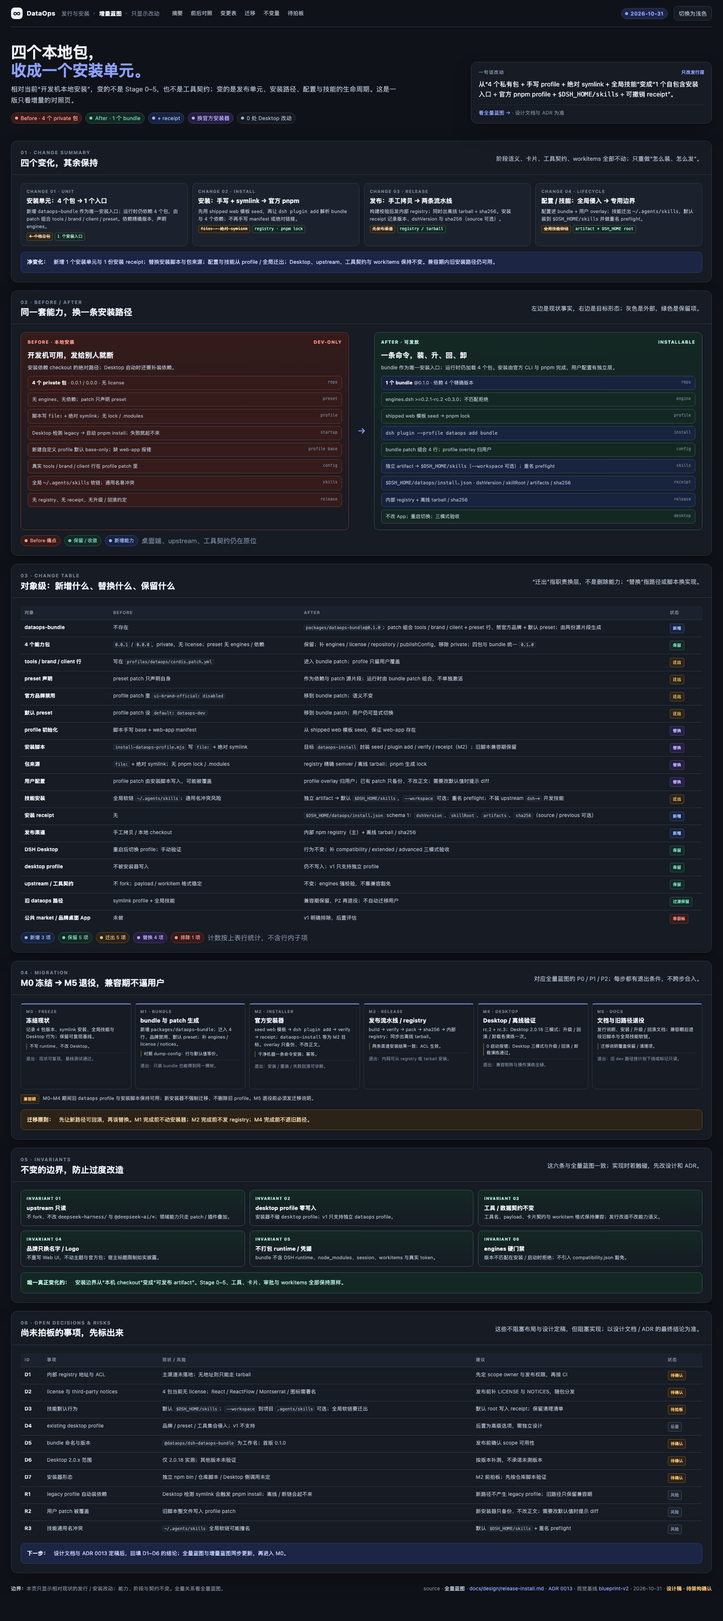
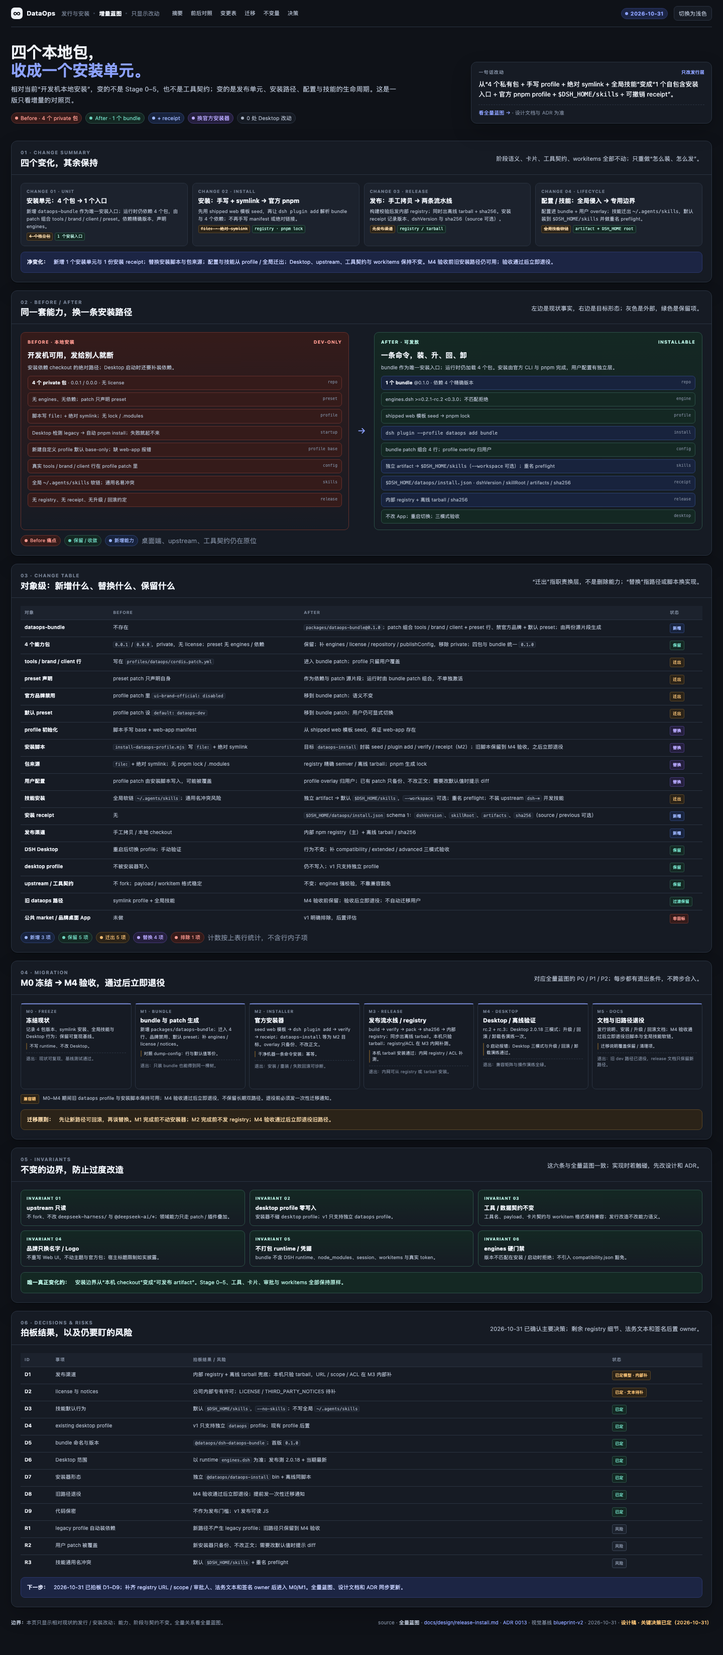
docs: finalize release install decisions

Changed region(s): [[0.0, 0.0, 0.9688, 0.9919], [0.5, 0.589, 0.625, 0.651]]

diff --git a/prototype/release-install-blueprint.html b/prototype/release-install-blueprint.html
@@ -206,6 +206,7 @@
   .open-table td:first-child{white-space:nowrap}
   .tbd{display:inline-block;font-size:8px;line-height:17px;padding:0 5px;border-radius:3px;border:1px solid var(--owned-line);color:var(--owned);background:var(--owned-bg);font-weight:700;white-space:nowrap}
   .tbd.soft{color:var(--external);background:var(--external-bg);border-color:var(--line2)}
+  .tbd.done{color:var(--shared);background:var(--shared-bg);border-color:var(--shared-line)}
   .foot{margin-top:22px;display:flex;justify-content:space-between;gap:16px;flex-wrap:wrap;color:var(--faint);font-size:10px;line-height:1.7}
   .foot b{color:var(--muted)}
   .foot .state{color:var(--owned);font-weight:600}
@@ -273,7 +274,7 @@
 <div class="shell">
   <header class="topbar">
     <span class="brand"><span class="brand-mark">∞</span> DataOps</span>
-    <span class="crumb"><span>发行与安装</span><span class="dot"></span><b>全量蓝图</b><span class="dot"></span><span>设计稿 · 待确认</span></span>
+    <span class="crumb"><span>发行与安装</span><span class="dot"></span><b>全量蓝图</b><span class="dot"></span><span>设计稿 · 关键决策已定</span></span>
     <nav class="nav">
       <a href="#goals">目标</a><a href="#topology">拓扑</a><a href="#packages">安装单元</a><a href="#journey">旅程</a><a href="#entries">双入口</a><a href="#compat">兼容</a><a href="#lifecycle">生命周期</a><a href="#trust">信任</a><a href="#invariants">边界</a><a href="#roadmap">路线</a>
     </nav>
@@ -419,7 +420,7 @@
       </div>
       <div class="grid-2" style="margin-top:11px">
         <div class="card soft"><div class="k">Channel A · 主渠道</div><h3>内部 npm registry</h3><p>按 <code>@dataops</code> scope 发布；安装器按精确 semver 解析，pnpm 生成 lock。适合联网的内网开发机与 CI。</p><div class="chips"><span class="chip">exact version</span><span class="chip">registry ACL</span><span class="chip">pnpm lock</span></div></div>
-        <div class="card soft"><div class="k">Channel B · 离线</div><h3>tarball + sha256</h3><p>离线包携带 bundle 及其依赖的打包产物与校验文件；目标机先校验再安装。真实内网地址与签名流程 <span class="tbd">待确认</span>。</p><div class="chips"><span class="chip">.tgz</span><span class="chip">sha256</span><span class="chip">no public network</span></div></div>
+        <div class="card soft"><div class="k">Channel B · 离线</div><h3>tarball + sha256</h3><p>离线包携带 bundle 及其依赖的打包产物与校验文件；目标机先校验再安装。registry 地址待补；签名/attestation 后置。</p><div class="chips"><span class="chip">.tgz</span><span class="chip">sha256</span><span class="chip">no public network</span></div></div>
       </div>
       <div class="callout" style="margin-top:11px"><b>稳定的只有接口：</b>用户看到的始终是 profile 名 <code>dataops</code>、bundle 包名与两条安装路径；包内部如何组合（patch 行、依赖树）属于实现，可在版本内演进。</div>
     </div>
@@ -469,7 +470,7 @@
   &gt;=0.2.1-rc.2 &lt;0.3.0</span></div>
           </div>
           <div class="card soft"><b>版本与元数据</b><p>4 个包当前 <code>0.0.1</code> / <code>0.0.0</code>、均为 private、无 license。发布时四包与 bundle 统一 <code>0.1.0</code>，补 engines / license / repository / publishConfig，并移除 private。</p></div>
-          <div class="card soft"><b>职责归属</b><p><b>DataOps</b>：bundle、tools、brand、client、preset。<b>官方</b>：base、web-app、runtime。<b>用户</b>：profile overlay、home patch、workspace。</p></div>
+          <div class="card soft"><b>职责归属</b><p><b>DataOps</b>：bundle、tools、brand、client、preset、install CLI。<b>官方</b>：base、web-app、runtime。<b>用户</b>：profile overlay、home patch、workspace。</p></div>
         </div>
       </div>
       <div class="table-wrap" style="margin-top:12px">
@@ -481,6 +482,7 @@
             <tr><td><b>dataops-brand</b></td><td>Client 品牌占位（∞ / DataOps）</td><td>profile 依赖</td><td>保留；只换名字 / Logo，不动主题与官方包</td><td>精确版本</td></tr>
             <tr><td><b>dataops-client</b></td><td>Client 卡片与工作台</td><td>profile 依赖</td><td>保留；工具契约不变</td><td>精确版本</td></tr>
             <tr><td><b>dataops-preset</b></td><td>preset 定义 / patch 源片段</td><td>bundle 依赖，不单独激活</td><td>保留；补 engines / license，版本统一 <code>0.1.0</code></td><td>精确版本</td></tr>
+            <tr><td><b>dataops-install</b></td><td>安装 / 诊断 / 卸载 CLI</td><td>registry bin / 离线脚本</td><td>新增 <code>@dataops/dataops-install</code>，与离线包同一脚本</td><td>检查 runtime，不依赖 DSH 包</td></tr>
             <tr><td><b>profile overlay</b></td><td>用户配置与覆盖</td><td>profile 根目录</td><td>安装器创建后不覆盖</td><td>由用户掌控</td></tr>
             <tr><td><b>skills</b></td><td>独立 artifact</td><td><code>$DSH_HOME/skills</code>；可选 <code>--workspace</code></td><td>迁出全局 <code>~/.agents/skills</code>；只带筛选后的 DataOps 工作流技能</td><td>按 artifact 版本</td></tr>
           </tbody>
@@ -512,7 +514,7 @@
         <div class="fail warn"><b>用户 patch 被改</b><span>安装器只备份现有 <code>cordis.patch.yml</code>，不改正文；需要改默认值时只提示 diff，不自动合并。</span></div>
         <div class="fail warn"><b>registry 不可达</b><span>切离线 tarball + sha256；校验失败或版本不符就停止，不进半安装状态。</span></div>
         <div class="fail warn"><b>技能重名</b><span>preflight 列出冲突技能；中止或由用户选择跳过，不覆盖已有技能目录。</span></div>
-        <div class="fail good"><b>旧 dataops profile 共存</b><span>兼容期保留旧 <code>dataops</code> profile 与安装脚本；不把旧 symlink profile 当作发布产物。</span></div>
+        <div class="fail good"><b>旧 dataops profile 共存</b><span>M4 验收前旧 <code>dataops</code> profile 与脚本保留；验收后立即退役。不把旧 symlink profile 当作发布产物。</span></div>
       </div>
       <div class="callout" style="margin-top:11px"><b>目标形态：</b><code>dataops-install</code> / <code>dataops-doctor</code> / <code>dataops-uninstall</code> 是 M2 才实现的安装器入口；当前仓库仍用 dev 脚本，本页不把它们写成已可用。官方底层命令 <code>dsh plugin add</code> 现在可用。<br><b>失败可诊断：</b>错误必须带“对象 + 当前值 + 期望值 + 下一步”，例如 “profile dataops 缺 web-app，请重新按 web 模板初始化”。</div>
     </div>
@@ -551,7 +553,7 @@
       <div class="modes">
         <div class="mode"><div class="k">Desktop Mode 01</div><h3>compatibility · 兼容</h3><p>最小面：App 能启动、profile 被识别、4 个包加载、品牌与 preset 正确；默认推荐此模式。</p><span class="st tag shared"><i></i>必测 · 默认推荐</span></div>
         <div class="mode"><div class="k">Desktop Mode 02</div><h3>extended · 扩展</h3><p>在兼容面之外验证自定义 web profile 的列出 / 切换、会话创建与工具调用。</p><span class="st tag shared"><i></i>必测</span></div>
-        <div class="mode"><div class="k">Desktop Mode 03</div><h3>advanced · 高级</h3><p>验证 overlay 配置、技能 root、离线安装与回滚；具体模式定义以 Desktop 文档为准 <span class="tbd">待确认</span>。</p><span class="st tag owned"><i></i>必测</span></div>
+        <div class="mode"><div class="k">Desktop Mode 03</div><h3>advanced · 高级</h3><p>验证 overlay 配置、技能 root、离线安装与回滚；具体模式定义以 Desktop 文档为准。</p><span class="st tag owned"><i></i>必测</span></div>
       </div>
       <div class="callout warn" style="margin-top:11px"><b>不共享 desktop profile 的生态位：</b>market、bridge 与 desktop 专属插件不进入 dataops profile。用户若需要，应显式在 overlay 中追加，而不是由安装器默认继承。</div>
     </div>
@@ -571,7 +573,7 @@
             <tr><td><b>DSH runtime</b></td><td><code>0.2.1-rc.3</code>（本仓 <code>upstream.json</code> pin）</td><td><span class="tag shared"><i></i>支持</span></td><td>CI：契约 / preset / workitem / 布局 + headless smoke</td></tr>
             <tr><td><b>DSH runtime</b></td><td><code>&lt;0.2.1-rc.2</code> 或 <code>&gt;=0.3.0</code></td><td><span class="tag warn"><i></i>拒绝</span></td><td>engines 在安装 / 启动时拒绝加载</td></tr>
             <tr><td><b>DSH Desktop</b></td><td><code>2.0.18</code></td><td><span class="tag shared"><i></i>支持</span></td><td>compatibility / extended / advanced 三模式</td></tr>
-            <tr><td><b>DSH Desktop</b></td><td>其他 <code>2.0.x</code></td><td><span class="tag owned"><i></i>待确认</span></td><td>未实测不承诺；按 Desktop 实际版本补测</td></tr>
+            <tr><td><b>DSH Desktop</b></td><td>其他 <code>2.0.x</code></td><td><span class="tag shared"><i></i>按 runtime 判定</span></td><td>内置 runtime 在 engines 范围即支持；未实测版本标注“未验证”</td></tr>
             <tr><td><b>平台</b></td><td>macOS arm64</td><td><span class="tag shared"><i></i>目标</span></td><td>M4：clean DSH_HOME install / uninstall</td></tr>
             <tr><td><b>平台</b></td><td>Windows x64</td><td><span class="tag shared"><i></i>目标</span></td><td>M4：pnpm profile + skills + 无 symlink</td></tr>
             <tr><td><b>平台</b></td><td>Linux</td><td><span class="tag owned"><i></i>补充</span></td><td>CI / 容器；无真机时标注“未验证”</td></tr>
@@ -583,7 +585,7 @@
       </div>
       <div class="grid-3" style="margin-top:11px">
         <div class="card shared"><div class="k">Gate A · 版本兼容</div><h3>能不能装</h3><p>安装前预检 runtime 版本；启动时 engines 再校验一次。失败即停，不进入半安装。</p><div class="tiny">证据：<code>--dump-config</code> 在两版 runtime 各跑一次</div></div>
-        <div class="card brand"><div class="k">Gate B · 发布完整性</div><h3>产物可不可信</h3><p>构建可复现、依赖锁定；发布附 sha256，registry 有 ACL；签名作为可选增强。</p><div class="tiny">证据：校验和记录 + registry 发布日志</div></div>
+        <div class="card brand"><div class="k">Gate B · 发布完整性</div><h3>产物可不可信</h3><p>构建可复现、依赖锁定；发布附 sha256，registry 有 ACL；签名/attestation 后置。本机验收走离线 tarball，registry/ACL 在 M3 内网补测。</p><div class="tiny">证据：本机 tarball 校验记录 + 内网 registry 发布日志</div></div>
         <div class="card owned"><div class="k">Gate C · 安装验收</div><h3>装完对不对</h3><p>dump-config 检查行与默认值；Desktop 三模式；升级 / 回滚 / 卸载演练各一次。</p><div class="tiny">证据：receipt + 三模式验收记录</div></div>
       </div>
       <div class="callout warn" style="margin-top:11px"><b>不用兼容性豁免：</b><code>compatibility.json</code> 之类“绕过 engines”的开关不进入本方案。版本不兼容就升级 runtime 或发新的 bundle 版本，两者必须显式对应。</div>
@@ -644,14 +646,14 @@
       <div class="rail-wrap">
         <div class="trust">
           <div class="tstep"><div class="no">01 · build</div><h3>可复现构建</h3><p>源码 pin + lockfile；不 fork upstream；产物不含凭据与本地路径。</p></div>
-          <div class="tstep"><div class="no">02 · checksum</div><h3>校验与签名</h3><p>tarball 附 sha256；签名作为可选增强，密钥归属 <span class="tbd">待确认</span>。</p></div>
+          <div class="tstep"><div class="no">02 · checksum</div><h3>校验与签名</h3><p>tarball 附 sha256；签名/attestation 后置，等产品成熟和安全团队具备密钥/CI 流程后再补。</p></div>
           <div class="tstep"><div class="no">03 · registry ACL</div><h3>谁能发布</h3><p>内部 registry 按 <code>@dataops</code> scope 限权；读权限给内网安装者。</p></div>
           <div class="tstep"><div class="no">04 · consent</div><h3>安装即代码执行</h3><p>安装前明示将执行的代码、写入目录、技能 root；默认不静默写全局。</p></div>
           <div class="tstep"><div class="no">05 · runtime</div><h3>启动复检</h3><p>engines 再校验；provider 凭据只走 credentials / env，不落 bundle。</p></div>
         </div>
       </div>
       <div class="grid-4" style="margin-top:11px">
-        <div class="card"><div class="k">Legal 01</div><h3>LICENSE</h3><p>仓库暂无根 LICENSE，4 个包也无 license 字段；发布前必须选定并写入包与仓库。具体许可证 <span class="tbd">待确认</span>。</p></div>
+        <div class="card"><div class="k">Legal 01</div><h3>LICENSE</h3><p>已定公司内部专有许可；发布前补 LICENSE 与 4 包 license 字段，法务文本待补。</p></div>
         <div class="card"><div class="k">Legal 02</div><h3>THIRD_PARTY_NOTICES</h3><p>至少覆盖 React、ReactFlow、Montserrat（OFL）与产品图标来源；随发布物分发。</p></div>
         <div class="card"><div class="k">Legal 03</div><h3>独立声明</h3><p>不暗示与 DeepSeek 官方的隶属或背书；品牌只用于 DataOps 自身产品面。</p></div>
         <div class="card"><div class="k">Known</div><h3>宿主标题限制</h3><p>宿主页面 / 窗口标题可能仍是 DeepSeek Harness 或 DSH Desktop，插件运行时改不了；v1 接受该限制，在发行说明中写明。</p></div>
@@ -683,37 +685,39 @@
   <section class="section" id="roadmap">
     <div class="section-head">
       <div><div class="section-kicker">10 · Migration &amp; Decisions</div><h2>P0 定稿，P1 可发，P2 扩面</h2></div>
-      <div class="desc">先冻结现状与边界，再改安装器与发布流水线；Desktop 验证与旧路径退役放最后。</div>
+      <div class="desc">关键决策已定；先做 bundle 与官方安装器，M4 验收后立即退役旧路径。</div>
     </div>
     <div class="section-body">
       <div class="road">
-        <div class="phase p0"><div class="k">P0 · 现在</div><h3>设计与冻结</h3><ul><li>设计文档 + ADR 0013 + 全量 / 增量蓝图。</li><li>记录现状：4 包版本、symlink 安装、全局技能。</li><li>不改 runtime、不改 Desktop、不发布。</li></ul><div class="exit">出口：架构确认，边界与待确认项收敛。</div></div>
+        <div class="phase p0"><div class="k">P0 · 现在</div><h3>设计与冻结</h3><ul><li>设计文档 + ADR 0013 + 全量 / 增量蓝图。</li><li>记录现状：4 包版本、symlink 安装、全局技能。</li><li>不改 runtime、不改 Desktop、不发布。</li></ul><div class="exit">出口：关键决策已确认，边界与待补信息收敛。</div></div>
         <div class="phase p1"><div class="k">P1 · 可发</div><h3>bundle 与官方安装器</h3><ul><li><code>packages/dataops-bundle</code> 0.1.0：patch / 精确依赖 / engines / license / notices。</li><li>seed + <code>dsh plugin add</code> 安装器；receipt 与 verify。</li><li>内部 registry + 离线 tarball / sha256；rc.2 / rc.3 CI。</li></ul><div class="exit">出口：干净机器一条命令安装并 dump-config 通过。</div></div>
-        <div class="phase p2"><div class="k">P2 · 扩面</div><h3>Desktop、兼容期与退役</h3><ul><li>Desktop 三模式 + 升级 / 回滚 / 卸载演练。</li><li>发行说明、安装 / 升级文档；兼容期保留旧脚本。</li><li>评估 existing-profile 高级选项、公共 market 与品牌桌面 App。</li></ul><div class="exit">出口：发布渠道稳定，旧 dataops profile 路径按计划退役。</div></div>
+        <div class="phase p2"><div class="k">P2 · 扩面</div><h3>Desktop、验收与退役</h3><ul><li>Desktop 三模式 + 升级 / 回滚 / 卸载演练。</li><li>发行说明、安装 / 升级文档；M4 验收后立即退役旧脚本。</li><li>评估 existing-profile 高级选项、公共 market 与品牌桌面 App。</li></ul><div class="exit">出口：发布渠道稳定，旧 dataops profile 路径已按计划退役。</div></div>
       </div>
       <div class="table-wrap" style="margin-top:12px">
         <table class="open-table">
-          <thead><tr><th>ID</th><th>待拍板项</th><th>当前建议 / 事实</th><th>状态</th></tr></thead>
+          <thead><tr><th>ID</th><th>事项</th><th>拍板结果（2026-10-31）</th><th>状态</th></tr></thead>
           <tbody>
-            <tr><td><b>D1</b></td><td>内部 registry 地址、scope owner 与 ACL</td><td>主渠道走内部 npm；具体 URL 与审批人未定</td><td><span class="tbd">待确认</span></td></tr>
-            <tr><td><b>D2</b></td><td>许可证选择与 notices 责任</td><td>内部许可 vs 其他；仓库与 4 包当前无 license</td><td><span class="tbd">待确认</span></td></tr>
-            <tr><td><b>D3</b></td><td>技能默认行为</td><td>默认 <code>$DSH_HOME/skills</code>；<code>--workspace</code> 到项目 <code>.agents/skills</code> 可选；不做全局 <code>~/.agents/skills</code></td><td><span class="tbd">待拍板</span></td></tr>
-            <tr><td><b>D4</b></td><td>existing desktop profile 支持</td><td>v1 不支持；列为未来 / 高级选项</td><td><span class="tbd soft">后置</span></td></tr>
-            <tr><td><b>D5</b></td><td>bundle 包命名</td><td><code>@dataops/dsh-dataops-bundle</code> 为工作名</td><td><span class="tbd">待确认</span></td></tr>
-            <tr><td><b>D6</b></td><td>签名基础设施与密钥归属</td><td>v1 校验和必选、签名可选；密钥 owner 未定</td><td><span class="tbd soft">可选</span></td></tr>
-            <tr><td><b>D7</b></td><td>Desktop 2.0.x 支持范围</td><td>仅 2.0.18 实测；其他 2.0.x 未验证</td><td><span class="tbd">待确认</span></td></tr>
-            <tr><td><b>D8</b></td><td>旧 dataops profile / 脚本退役时点</td><td>P2 兼容期后退役，需迁移说明</td><td><span class="tbd">待确认</span></td></tr>
-            <tr><td><b>D9</b></td><td>安装器形态</td><td>独立 npm bin / 仓库脚本 / Desktop 侧调用，M2 前不实现</td><td><span class="tbd">待确认</span></td></tr>
+            <tr><td><b>D1</b></td><td>发布渠道</td><td>内部 registry 为主 + 离线 tarball 兜底；本机测试只走 tarball，URL / scope / ACL 在 M3 内部补</td><td><span class="tbd">已定模型 · 内部补</span></td></tr>
+            <tr><td><b>D2</b></td><td>许可证与 notices</td><td>公司内部专有许可；法务文本 + THIRD_PARTY_NOTICES 待补</td><td><span class="tbd">已定 · 文本待补</span></td></tr>
+            <tr><td><b>D3</b></td><td>技能默认行为</td><td>默认 <code>$DSH_HOME/skills</code>，<code>--no-skills</code> 可关闭；不写 <code>~/.agents/skills</code>，不装 upstream <code>dsh-*</code></td><td><span class="tbd done">已定</span></td></tr>
+            <tr><td><b>D4</b></td><td>existing desktop profile</td><td>v1 只支持独立 <code>dataops</code> profile；现有 profile 后置</td><td><span class="tbd done">已定</span></td></tr>
+            <tr><td><b>D5</b></td><td>bundle 包命名 / 版本</td><td><code>@dataops/dsh-dataops-bundle</code>；首版 <code>0.1.0</code></td><td><span class="tbd done">已定</span></td></tr>
+            <tr><td><b>D6</b></td><td>签名 / attestation</td><td>后置；v1 保留 sha256 + registry ACL + 安装确认</td><td><span class="tbd soft">后置</span></td></tr>
+            <tr><td><b>D7</b></td><td>Desktop 支持范围</td><td>以 runtime <code>engines.dsh</code> 为准；发布测 2.0.18 + 当期最新</td><td><span class="tbd done">已定</span></td></tr>
+            <tr><td><b>D8</b></td><td>旧路径退役时点</td><td>M4 验收通过后立即退役；提前发一次性迁移通知</td><td><span class="tbd done">已定</span></td></tr>
+            <tr><td><b>D9</b></td><td>安装器形态</td><td>独立 <code>@dataops/dataops-install</code> bin + 离线包内置同一脚本</td><td><span class="tbd done">已定</span></td></tr>
+            <tr><td><b>D10</b></td><td>代码保密</td><td>不作为发布门槛；v1 发布可读 JS，不做混淆/服务端化</td><td><span class="tbd done">已定</span></td></tr>
+            <tr><td><b>D11</b></td><td><code>dataops-preset</code> 角色</td><td>patch 源片段 / 版本对齐依赖，不单独作为用户安装目标</td><td><span class="tbd done">已定</span></td></tr>
           </tbody>
         </table>
       </div>
-      <div class="callout" style="margin-top:11px"><b>先决条件：</b>设计文档与 ADR 0013 是本页的上级事实源；两者若调整，蓝图同步更新。发布实现必须在架构确认之后，不把 runtime 改动混进设计提交。</div>
+      <div class="callout" style="margin-top:11px"><b>拍板记录：</b>2026-10-31 已确认以上决策；仍需补 registry 细节、法务文本和签名后置 owner。实现从 M0/M1 开始，不把 runtime 改动混进设计提交。</div>
     </div>
   </section>
 
   <footer class="foot">
     <span><b>边界：</b>本页只定发行 / 安装模型与门禁，不含实现；Stage 0–5 语义、工具契约与 workitem 格式不变。</span>
-    <span>source · <a href="../docs/design/release-install.md"><b>docs/design/release-install.md</b></a> · <a href="../docs/decisions/0013-release-install-unit.md">ADR 0013</a> · <a href="release-install-blueprint-delta.html">增量蓝图</a> · 视觉基线 <a href="blueprint-v2.html">blueprint-v2</a> · 2026-10-31 · <span class="state">设计稿 · 待架构确认</span></span>
+    <span>source · <a href="../docs/design/release-install.md"><b>docs/design/release-install.md</b></a> · <a href="../docs/decisions/0013-release-install-unit.md">ADR 0013</a> · <a href="release-install-blueprint-delta.html">增量蓝图</a> · 视觉基线 <a href="blueprint-v2.html">blueprint-v2</a> · 2026-10-31 · <span class="state">设计稿 · 关键决策已定（2026-10-31）</span></span>
   </footer>
 </div>
 <script>

diff --git a/prototype/release-install-blueprint-delta.html b/prototype/release-install-blueprint-delta.html
@@ -130,6 +130,7 @@
   .risk-table td:first-child{white-space:nowrap}
   .tbd{display:inline-block;font-size:8px;line-height:17px;padding:0 5px;border-radius:3px;border:1px solid var(--move-line);color:var(--move);background:var(--move-bg);font-weight:700;white-space:nowrap}
   .tbd.soft{color:var(--faint);background:var(--panel2);border-color:var(--line2)}
+  .tbd.done{color:var(--keep);background:var(--keep-bg);border-color:var(--keep-line)}
   .mono{font-family:ui-monospace,SFMono-Regular,Menlo,Consolas,monospace;font-size:9px;line-height:1.65;background:var(--code-bg);border:1px solid var(--line);border-radius:7px;padding:9px 10px;white-space:pre-wrap;overflow-wrap:anywhere;color:var(--code-text)}
   .mono b{color:var(--brand)}
   .foot{margin-top:22px;display:flex;justify-content:space-between;gap:16px;flex-wrap:wrap;color:var(--faint);font-size:10px;line-height:1.7}
@@ -190,7 +191,7 @@
     <span class="brand"><span class="brand-mark">∞</span> DataOps</span>
     <span class="crumb"><span>发行与安装</span><span class="dot"></span><b>增量蓝图</b><span class="dot"></span><span>只显示改动</span></span>
     <nav class="nav">
-      <a href="#summary">摘要</a><a href="#beforeafter">前后对照</a><a href="#diff">变更表</a><a href="#migration">迁移</a><a href="#invariants">不变量</a><a href="#open">待拍板</a>
+      <a href="#summary">摘要</a><a href="#beforeafter">前后对照</a><a href="#diff">变更表</a><a href="#migration">迁移</a><a href="#invariants">不变量</a><a href="#open">决策</a>
     </nav>
     <span class="spacer"></span>
     <span class="tag brand"><i></i>2026-10-31</span>
@@ -230,7 +231,7 @@
         <div class="change"><div class="k">Change 03 · Release</div><h3>发布：手工拷贝 → 两条流水线</h3><p>构建校验后发内部 registry；同时出离线 tarball + sha256。安装 receipt 记录版本、dshVersion 与 sha256（source 可选）。</p><span class="from">无发布渠道</span> <span class="to">registry / tarball</span></div>
         <div class="change"><div class="k">Change 04 · Lifecycle</div><h3>配置 / 技能：全局侵入 → 专用边界</h3><p>配置进 bundle + 用户 overlay；技能迁出 <code>~/.agents/skills</code>，默认装到 <code>$DSH_HOME/skills</code> 并做重名 preflight。</p><span class="from">全局技能软链</span> <span class="to">artifact + DSH_HOME root</span></div>
       </div>
-      <div class="callout" style="margin-top:11px"><b>净变化：</b>新增 1 个安装单元与 1 份安装 receipt；替换安装脚本与包来源；配置与技能从 profile / 全局迁出；Desktop、upstream、工具契约与 workitems 保持不变。兼容期内旧安装路径仍可用。</div>
+      <div class="callout" style="margin-top:11px"><b>净变化：</b>新增 1 个安装单元与 1 份安装 receipt；替换安装脚本与包来源；配置与技能从 profile / 全局迁出；Desktop、upstream、工具契约与 workitems 保持不变。M4 验收前旧安装路径仍可用；验收通过后立即退役。</div>
     </div>
   </section>
 
@@ -300,7 +301,7 @@
             <tr><td><b>官方品牌禁用</b></td><td>profile patch 里 <code>ui-brand-official: disabled</code></td><td>移到 bundle patch；语义不变</td><td><span class="diff-status move">迁出</span></td></tr>
             <tr><td><b>默认 preset</b></td><td>profile patch 设 <code>default: dataops-dev</code></td><td>移到 bundle patch；用户仍可显式切换</td><td><span class="diff-status move">迁出</span></td></tr>
             <tr><td><b>profile 初始化</b></td><td>脚本手写 base + web-app manifest</td><td>从 shipped web 模板 seed，保证 web-app 存在</td><td><span class="diff-status replace">替换</span></td></tr>
-            <tr><td><b>安装脚本</b></td><td><code>install-dataops-profile.mjs</code> 写 <code>file:</code> + 绝对 symlink</td><td>目标 <code>dataops-install</code> 封装 seed / plugin add / verify / receipt（M2）；旧脚本兼容期保留</td><td><span class="diff-status replace">替换</span></td></tr>
+            <tr><td><b>安装脚本</b></td><td><code>install-dataops-profile.mjs</code> 写 <code>file:</code> + 绝对 symlink</td><td>目标 <code>dataops-install</code> 封装 seed / plugin add / verify / receipt（M2）；旧脚本保留到 M4 验收，之后立即退役</td><td><span class="diff-status replace">替换</span></td></tr>
             <tr><td><b>包来源</b></td><td><code>file:</code> + 绝对 symlink；无 pnpm lock / .modules</td><td>registry 精确 semver / 离线 tarball；pnpm 生成 lock</td><td><span class="diff-status replace">替换</span></td></tr>
             <tr><td><b>用户配置</b></td><td>profile patch 由安装脚本写入，可能被覆盖</td><td>profile overlay 归用户；已有 patch 只备份、不改正文；需要改默认值时提示 diff</td><td><span class="diff-status replace">替换</span></td></tr>
             <tr><td><b>技能安装</b></td><td>全局软链 <code>~/.agents/skills</code>；通用名冲突风险</td><td>独立 artifact → 默认 <code>$DSH_HOME/skills</code>，<code>--workspace</code> 可选；重名 preflight；不装 upstream <code>dsh-*</code> 开发技能</td><td><span class="diff-status move">迁出</span></td></tr>
@@ -309,7 +310,7 @@
             <tr><td><b>DSH Desktop</b></td><td>重启后切换 profile；手动验证</td><td>行为不变；补 compatibility / extended / advanced 三模式验收</td><td><span class="diff-status keep">保留</span></td></tr>
             <tr><td><b>desktop profile</b></td><td>不被安装器写入</td><td>仍不写入；v1 只支持独立 profile</td><td><span class="diff-status keep">保留</span></td></tr>
             <tr><td><b>upstream / 工具契约</b></td><td>不 fork；payload / workitem 格式稳定</td><td>不变；engines 强校验，不靠兼容豁免</td><td><span class="diff-status keep">保留</span></td></tr>
-            <tr><td><b>旧 dataops 路径</b></td><td>symlink profile + 全局技能</td><td>兼容期保留，P2 再退役；不自动迁移用户</td><td><span class="diff-status keep">过渡保留</span></td></tr>
+            <tr><td><b>旧 dataops 路径</b></td><td>symlink profile + 全局技能</td><td>M4 验收前保留；验收后立即退役；不自动迁移用户</td><td><span class="diff-status keep">过渡保留</span></td></tr>
             <tr><td><b>公共 market / 品牌桌面 App</b></td><td>未做</td><td>v1 明确排除，后置评估</td><td><span class="diff-status del">非目标</span></td></tr>
           </tbody>
         </table>
@@ -327,7 +328,7 @@
 
   <section class="section" id="migration">
     <div class="section-head">
-      <div><div class="section-kicker">04 · Migration</div><h2>M0 冻结 → M5 退役，兼容期不逼用户</h2></div>
+      <div><div class="section-kicker">04 · Migration</div><h2>M0 冻结 → M4 验收，通过后立即退役</h2></div>
       <div class="desc">对应全量蓝图的 P0 / P1 / P2；每步都有退出条件，不跨步合入。</div>
     </div>
     <div class="section-body">
@@ -336,13 +337,13 @@
           <div class="mstep"><div class="no">M0 · freeze</div><h3>冻结现状</h3><p>记录 4 包版本、symlink 安装、全局技能与 Desktop 行为；保留可复现基线。</p><div class="gate">不写 runtime、不改 Desktop。</div><div class="exit">退出：现状可复现，基线测试通过。</div></div>
           <div class="mstep"><div class="no">M1 · bundle</div><h3>bundle 与 patch 生成</h3><p>新增 <code>packages/dataops-bundle</code>；迁入 4 行、品牌禁用、默认 preset；补 engines / license / notices。</p><div class="gate">对照 dump-config：行与默认值等价。</div><div class="exit">退出：只装 bundle 也能得到同一棵树。</div></div>
           <div class="mstep"><div class="no">M2 · installer</div><h3>官方安装器</h3><p>seed web 模板 → <code>dsh plugin add</code> → verify → receipt；<code>dataops-install</code> 等为 M2 目标。overlay 只备份、不改正文。</p><div class="gate">干净机器一条命令安装；幂等。</div><div class="exit">退出：安装 / 重装 / 失败回滚可诊断。</div></div>
-          <div class="mstep"><div class="no">M3 · release</div><h3>发布流水线 / registry</h3><p>build → verify → pack → sha256 → 内部 registry；同步出离线 tarball。</p><div class="gate">两条渠道安装结果一致；ACL 生效。</div><div class="exit">退出：内网可从 registry 或 tarball 安装。</div></div>
+          <div class="mstep"><div class="no">M3 · release</div><h3>发布流水线 / registry</h3><p>build → verify → pack → sha256 → 内部 registry；同步出离线 tarball。本机只验 tarball；registry/ACL 在 M3 内网补测。</p><div class="gate">本机 tarball 安装通过；内网 registry / ACL 补测。</div><div class="exit">退出：内网可从 registry 或 tarball 安装。</div></div>
           <div class="mstep"><div class="no">M4 · desktop</div><h3>Desktop / 离线验证</h3><p>rc.2 + rc.3；Desktop 2.0.18 三模式；升级 / 回滚 / 卸载各演练一次。</p><div class="gate">0 启动报错；Desktop 三模式与升级 / 回滚 / 卸载演练通过。</div><div class="exit">退出：兼容矩阵与操作演练全绿。</div></div>
-          <div class="mstep"><div class="no">M5 · docs</div><h3>文档与旧路径退役</h3><p>发行说明、安装 / 升级 / 回滚文档；兼容期后退役旧脚本与全局技能软链。</p><div class="gate">迁移说明覆盖保留 / 清理项。</div><div class="exit">退出：旧 dev 路径按计划下线或标记只读。</div></div>
+          <div class="mstep"><div class="no">M5 · docs</div><h3>文档与旧路径退役</h3><p>发行说明、安装 / 升级 / 回滚文档；M4 验收通过后立即退役旧脚本与全局技能软链。</p><div class="gate">迁移说明覆盖保留 / 清理项。</div><div class="exit">退出：旧 dev 路径已退役，release 文档只保留新路径。</div></div>
         </div>
       </div>
-      <div class="mig-note"><span class="tbd">兼容期</span><div>M0–M4 期间旧 <code>dataops</code> profile 与安装脚本保持可用；新安装器不强制迁移、不删除旧 profile。M5 退役前必须发迁移说明。</div></div>
-      <div class="callout move" style="margin-top:11px"><b>迁移原则：</b>先让新路径可回滚，再谈替换。M1 完成前不动安装器；M2 完成前不发 registry；M4 完成前不退旧路径。</div>
+      <div class="mig-note"><span class="tbd">兼容期</span><div>M0–M4 期间旧 <code>dataops</code> profile 与安装脚本保持可用；M4 验收通过后立即退役，不保留长期双路径。退役前必须发一次性迁移通知。</div></div>
+      <div class="callout move" style="margin-top:11px"><b>迁移原则：</b>先让新路径可回滚，再谈替换。M1 完成前不动安装器；M2 完成前不发 registry；M4 验收通过后立即退役旧路径。</div>
     </div>
   </section>
 
@@ -366,34 +367,36 @@
 
   <section class="section" id="open">
     <div class="section-head">
-      <div><div class="section-kicker">06 · Open Decisions &amp; Risks</div><h2>尚未拍板的事项，先标出来</h2></div>
-      <div class="desc">这些不阻塞布局与设计定稿，但阻塞实现；以设计文档 / ADR 的最终结论为准。</div>
+      <div><div class="section-kicker">06 · Decisions &amp; Risks</div><h2>拍板结果，以及仍要盯的风险</h2></div>
+      <div class="desc">2026-10-31 已确认主要决策；剩余 registry 细节、法务文本和签名后置 owner。</div>
     </div>
     <div class="section-body">
       <div class="table-wrap">
         <table class="risk-table">
-          <thead><tr><th>ID</th><th>事项</th><th>现状 / 风险</th><th>建议</th><th>状态</th></tr></thead>
+          <thead><tr><th>ID</th><th>事项</th><th>拍板结果 / 风险</th><th>状态</th></tr></thead>
           <tbody>
-            <tr><td><b>D1</b></td><td>内部 registry 地址与 ACL</td><td>主渠道未落地；无地址则只能走 tarball</td><td>先定 scope owner 与发布权限，再接 CI</td><td><span class="tbd">待确认</span></td></tr>
-            <tr><td><b>D2</b></td><td>license 与 third-party notices</td><td>4 包当前无 license；React / ReactFlow / Montserrat / 图标需署名</td><td>发布前补 LICENSE 与 NOTICES，随包分发</td><td><span class="tbd">待确认</span></td></tr>
-            <tr><td><b>D3</b></td><td>技能默认行为</td><td>默认 <code>$DSH_HOME/skills</code>；<code>--workspace</code> 到项目 <code>.agents/skills</code> 可选；全局软链要迁出</td><td>默认 root 写入 receipt；保留清理清单</td><td><span class="tbd">待拍板</span></td></tr>
-            <tr><td><b>D4</b></td><td>existing desktop profile</td><td>品牌 / preset / 工具集会侵入；v1 不支持</td><td>后置为高级选项，需独立设计</td><td><span class="tbd soft">后置</span></td></tr>
-            <tr><td><b>D5</b></td><td>bundle 命名与版本</td><td><code>@dataops/dsh-dataops-bundle</code> 为工作名；首版 0.1.0</td><td>发布前确认 scope 可用性</td><td><span class="tbd">待确认</span></td></tr>
-            <tr><td><b>D6</b></td><td>Desktop 2.0.x 范围</td><td>仅 2.0.18 实测；其他版本未验证</td><td>按版本补测，不承诺未测版本</td><td><span class="tbd">待确认</span></td></tr>
-            <tr><td><b>D7</b></td><td>安装器形态</td><td>独立 npm bin / 仓库脚本 / Desktop 侧调用未定</td><td>M2 前拍板；先按仓库脚本验证</td><td><span class="tbd">待确认</span></td></tr>
-            <tr><td><b>R1</b></td><td>legacy profile 自动装依赖</td><td>Desktop 检测 symlink 会触发 pnpm install；离线 / 断链会起不来</td><td>新路径不产生 legacy profile；旧路径只保留兼容期</td><td><span class="tbd soft">风险</span></td></tr>
-            <tr><td><b>R2</b></td><td>用户 patch 被覆盖</td><td>旧脚本整文件写入 profile patch</td><td>新安装器只备份、不改正文；需要改默认值时提示 diff</td><td><span class="tbd soft">风险</span></td></tr>
-            <tr><td><b>R3</b></td><td>技能通用名冲突</td><td><code>~/.agents/skills</code> 全局软链可能撞名</td><td>默认 <code>$DSH_HOME/skills</code> + 重名 preflight</td><td><span class="tbd soft">风险</span></td></tr>
+            <tr><td><b>D1</b></td><td>发布渠道</td><td>内部 registry + 离线 tarball 兜底；本机只验 tarball，URL / scope / ACL 在 M3 内部补</td><td><span class="tbd">已定模型 · 内部补</span></td></tr>
+            <tr><td><b>D2</b></td><td>license 与 notices</td><td>公司内部专有许可；LICENSE / THIRD_PARTY_NOTICES 待补</td><td><span class="tbd">已定 · 文本待补</span></td></tr>
+            <tr><td><b>D3</b></td><td>技能默认行为</td><td>默认 <code>$DSH_HOME/skills</code>，<code>--no-skills</code>；不写全局 <code>~/.agents/skills</code></td><td><span class="tbd done">已定</span></td></tr>
+            <tr><td><b>D4</b></td><td>existing desktop profile</td><td>v1 只支持独立 <code>dataops</code> profile；现有 profile 后置</td><td><span class="tbd done">已定</span></td></tr>
+            <tr><td><b>D5</b></td><td>bundle 命名与版本</td><td><code>@dataops/dsh-dataops-bundle</code>；首版 <code>0.1.0</code></td><td><span class="tbd done">已定</span></td></tr>
+            <tr><td><b>D6</b></td><td>Desktop 范围</td><td>以 runtime <code>engines.dsh</code> 为准；发布测 2.0.18 + 当期最新</td><td><span class="tbd done">已定</span></td></tr>
+            <tr><td><b>D7</b></td><td>安装器形态</td><td>独立 <code>@dataops/dataops-install</code> bin + 离线同脚本</td><td><span class="tbd done">已定</span></td></tr>
+            <tr><td><b>D8</b></td><td>旧路径退役</td><td>M4 验收通过后立即退役；提前发一次性迁移通知</td><td><span class="tbd done">已定</span></td></tr>
+            <tr><td><b>D9</b></td><td>代码保密</td><td>不作为发布门槛；v1 发布可读 JS</td><td><span class="tbd done">已定</span></td></tr>
+            <tr><td><b>R1</b></td><td>legacy profile 自动装依赖</td><td>新路径不产生 legacy profile；旧路径只保留到 M4 验收</td><td><span class="tbd soft">风险</span></td></tr>
+            <tr><td><b>R2</b></td><td>用户 patch 被覆盖</td><td>新安装器只备份、不改正文；需要改默认值时提示 diff</td><td><span class="tbd soft">风险</span></td></tr>
+            <tr><td><b>R3</b></td><td>技能通用名冲突</td><td>默认 <code>$DSH_HOME/skills</code> + 重名 preflight</td><td><span class="tbd soft">风险</span></td></tr>
           </tbody>
         </table>
       </div>
-      <div class="callout" style="margin-top:11px"><b>下一步：</b>设计文档与 ADR 0013 定稿后，回填 D1–D6 的结论；全量蓝图与增量蓝图同步更新，再进入 M0。</div>
+      <div class="callout" style="margin-top:11px"><b>下一步：</b>2026-10-31 已拍板 D1–D9；补齐 registry URL / scope / 审批人、法务文本和签名 owner 后进入 M0/M1。全量蓝图、设计文档和 ADR 同步更新。</div>
     </div>
   </section>
 
   <footer class="foot">
     <span><b>边界：</b>本页只显示相对现状的发行 / 安装改动；能力、阶段与契约不变。全量关系看全量蓝图。</span>
-    <span>source · <a href="release-install-blueprint.html"><b>全量蓝图</b></a> · <a href="../docs/design/release-install.md">docs/design/release-install.md</a> · <a href="../docs/decisions/0013-release-install-unit.md">ADR 0013</a> · 视觉基线 <a href="blueprint-v2.html">blueprint-v2</a> · 2026-10-31 · <span class="state">设计稿 · 待架构确认</span></span>
+    <span>source · <a href="release-install-blueprint.html"><b>全量蓝图</b></a> · <a href="../docs/design/release-install.md">docs/design/release-install.md</a> · <a href="../docs/decisions/0013-release-install-unit.md">ADR 0013</a> · 视觉基线 <a href="blueprint-v2.html">blueprint-v2</a> · 2026-10-31 · <span class="state">设计稿 · 关键决策已定（2026-10-31）</span></span>
   </footer>
 </div>
 <script>

diff --git a/docs/decisions/0013-release-install-unit.md b/docs/decisions/0013-release-install-unit.md
@@ -1,7 +1,7 @@
 # 0013 · 发布与安装单元：独立 profile + 自包含 bundle
 
 - 日期：2026-10-31
-- 状态：提议，待架构确认
+- 状态：已确认，待实施（registry 细节与签名后置）
 - 关联：[发布与安装设计](../design/release-install.md) · [全量蓝图](../../prototype/release-install-blueprint.html) · [增量蓝图](../../prototype/release-install-blueprint-delta.html)
 
 ## 背景
@@ -24,7 +24,12 @@
 6. **配置归属**：bundle 提供 mock 默认；用户/部署配置写入 profile 的 `cordis.patch.yml`；安装器不覆盖用户 patch。
 7. **技能作用域**：安装到 `$DSH_HOME/skills`（或显式 workspace），不再默认写 `~/.agents/skills`；重名 preflight；不默认安装 upstream 的 `dsh-*` 开发技能。
 8. **生命周期**：`$DSH_HOME/dataops/install.json` receipt；升级/回滚用 `dsh plugin add` 精确版本；卸载保留 workspace workitems。
-9. **发布渠道**：v1 内部 registry 为主，离线 tarball + sha256 为辅；公共 market/品牌桌面 App 非目标。
+9. **发布渠道**：v1 内部 registry 为主，离线 tarball + sha256 为辅；公共 market/品牌桌面 App 非目标。registry 地址/scope/ACL 待补，但不阻塞 M0–M2：本机/离线验收只走 tarball，registry 安装与 ACL 在 M3 内网环境补测。
+10. **安装器形态**：独立 bin `@dataops/dataops-install`（`dataops-install` / `doctor` / `uninstall`），离线包内置同一脚本。
+11. **许可证**：公司内部专有许可；`LICENSE` / `THIRD_PARTY_NOTICES` 随包发布，法务文本待补。
+12. **代码保密与签名**：代码保密不作为发布门槛；v1 保留 sha256 + registry ACL + 安装确认，签名/attestation 后置。
+13. **旧路径退役**：新路径 M4 验收通过后立即退役 symlink 安装；提前发一次性迁移通知，不保留长期双路径。
+14. **preset 角色**：`dataops-preset` 保留为 patch 源片段/版本对齐依赖，不单独作为用户安装目标。
 
 ## 后果
 
@@ -39,7 +44,7 @@
 
 - 需要新增 bundle 包、patch 生成器、安装器、receipt 与发布流水线。
 - 需要一次包清单/版本/许可/registry 治理。
-- 旧 symlink 安装方式要降级为 dev-only，并设计迁移路径。
+- 旧 symlink 安装方式在 M4 验收后立即退役；退役前需要一次性迁移通知和迁移命令。
 - 独立 profile 不继承用户 `desktop` profile 的 market/bridge，需要在用户文档中说明。
 
 ## 备选方案

diff --git a/docs/design/architecture-index.md b/docs/design/architecture-index.md
@@ -17,7 +17,7 @@
 | [ADR 0011](../decisions/0011-stage-4-5-implementation.md) | Stage 4/5 实现决策 |
 | [ADR 0012](../decisions/0012-real-provider-boundary.md) | 真实系统接入边界 |
 | [发布与安装](release-install.md) | 自包含 bundle、独立 profile、registry/离线、生命周期 |
-| [ADR 0013](../decisions/0013-release-install-unit.md) | 发布与安装单元（提议） |
+| [ADR 0013](../decisions/0013-release-install-unit.md) | 发布与安装单元（已确认，待实施） |
 | [内部代码仓组件](repo-components.md) | manifest/build.yaml 索引与 LTS 源解析 |
 | [卡 Payload 契约](card-payload-contract.md) | 卡片渲染安全与 schema 变体 |
 | [P9 SSO 身份](identity-sso.md) | 身份、角色映射、签收审计 |
@@ -34,7 +34,7 @@ Stage 6: 不实现、不展示
 真实域 adapter 骨架: providers/domain-adapters.js（未接线）
 Workitem: 本地 YAML（无 SSO/并发锁）
 签收: mock actionId + UI 回执（非生产身份）
-发布/安装: 设计稿（自包含 bundle / registry / receipt 未实现；dev symlink 安装仍可用）
+发布/安装: 设计稿，关键决策已定；bundle / registry / receipt 未实现；dev symlink 安装仍可用，M4 验收后退役
 ```
 
 ## 3. 历史/局部参考
